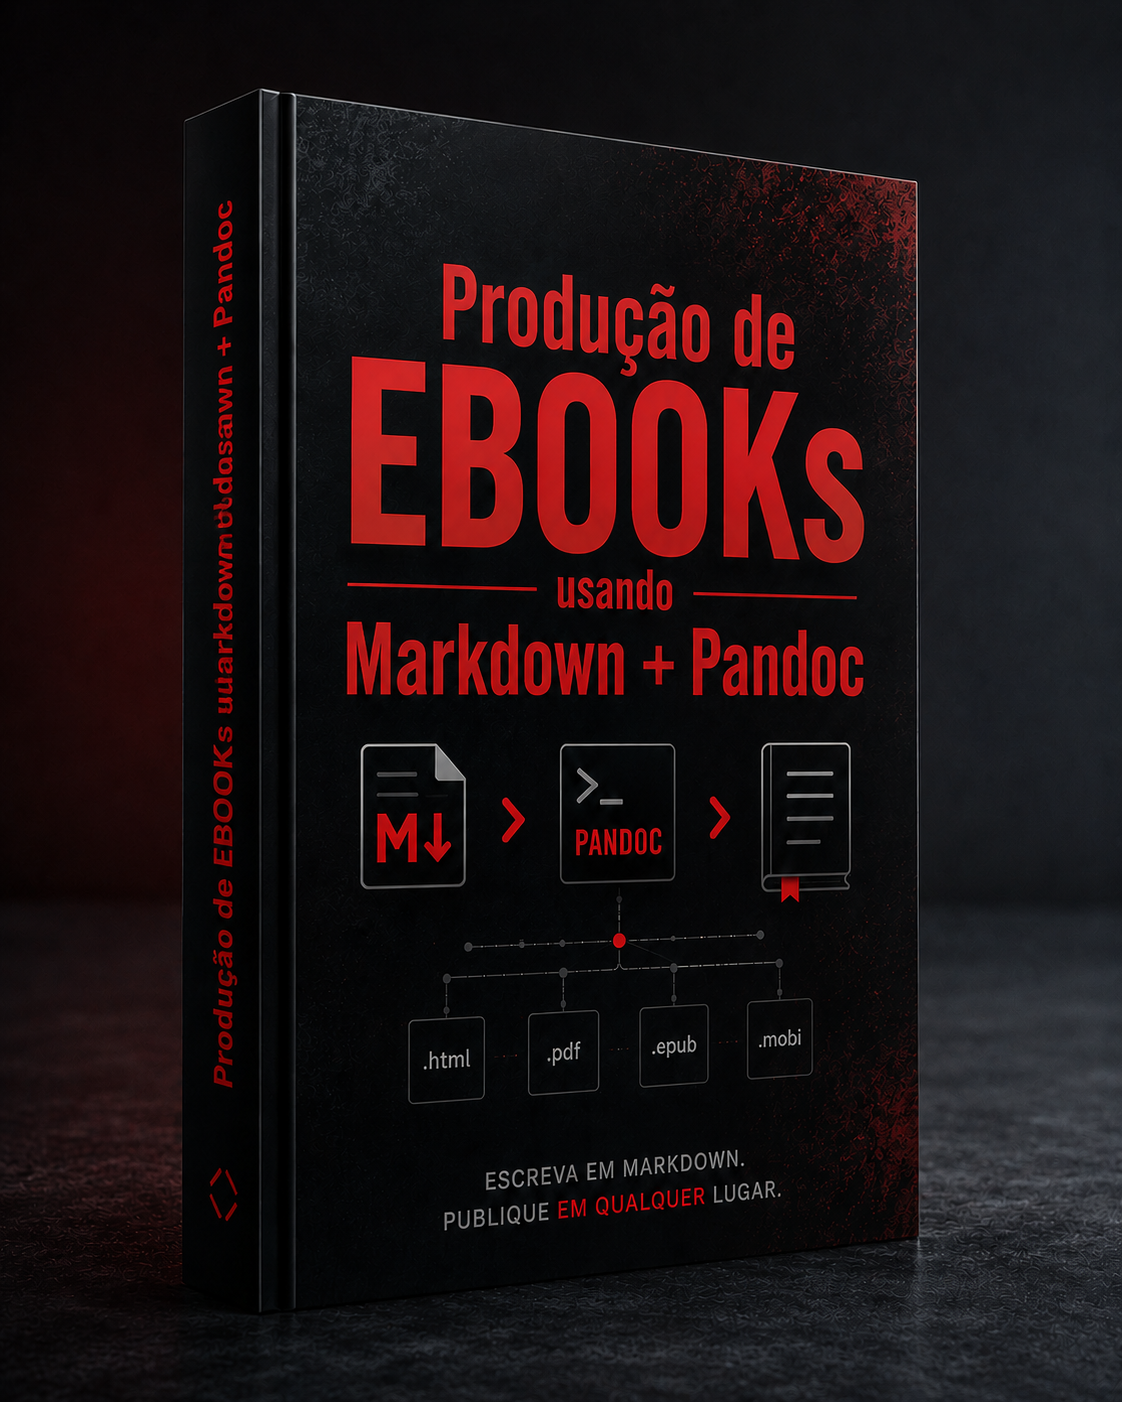
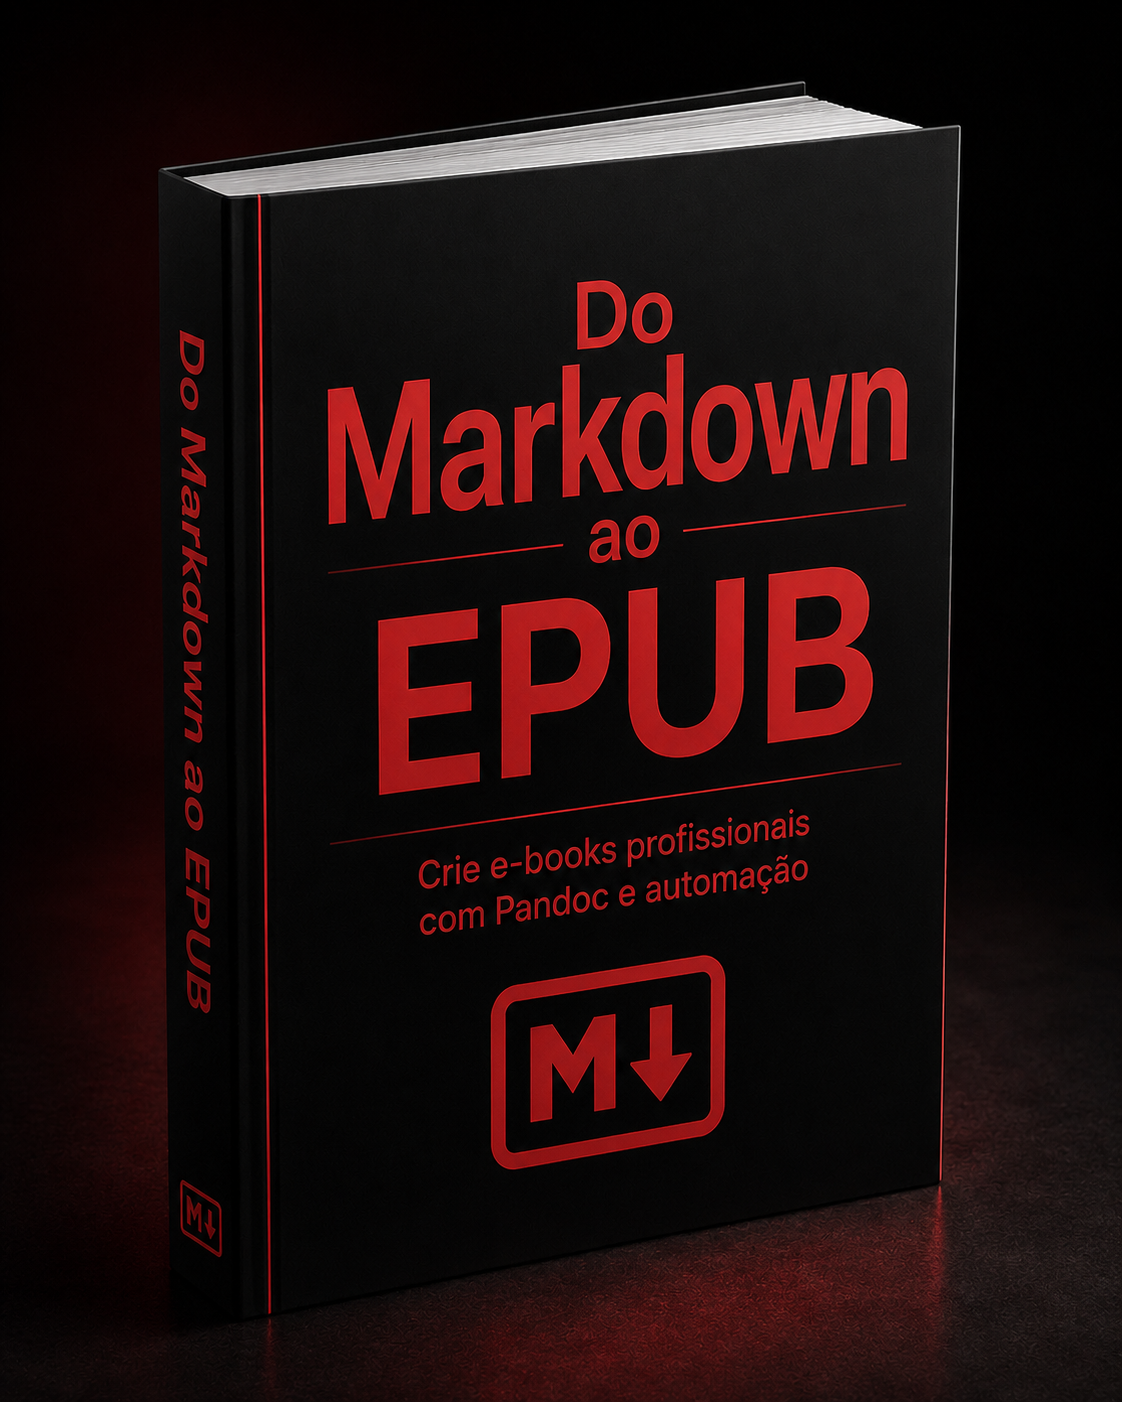
coredata

diff --git a/content/ebook-freelancer.md b/content/ebook-freelancer.md
@@ -1,0 +1,93 @@
+<img src="./assets/ebook-freelancer.png" width="45%" height="45%" style="border-radius:2%;" />
+
+     
+
+
+
+## Conteúdo do eBook 
+
+Este livro é para quem já decidiu que quer trabalhar com programação web de forma independente, mas ainda não sabe por onde começar de verdade.
+
+Não é para quem quer entrar no processo seletivo de uma grande empresa de tecnologia. Não é para quem busca se tornar especialista em arquitetura de software ou engenharia de sistemas complexos. É para quem quer criar, publicar e vender usando o que sabe sobre a web.
+
+Se você se encaixa em algum desses perfis, este livro foi escrito para você:
+
+**Você está começando agora.** Já fez alguns cursos, sabe o básico de HTML e CSS, talvez tenha mexido um pouco com JavaScript, mas ainda não sabe como transformar isso em trabalho real.
+
+**Você já programa mas não produz.** Tem conhecimento técnico, mas não tem portfólio sólido, não tem projetos publicados, não sabe como chegar nos primeiros clientes ou criar os primeiros produtos.
+
+**Você quer independência digital.** Não necessariamente montar uma empresa grande. Quer ter controle sobre o próprio tempo, trabalhar de qualquer lugar e gerar renda com o que sabe fazer.
+
+**Você não quer depender de frameworks complexos.** Quer entender a base antes de adicionar camadas. HTML, CSS e JavaScript vanilla são suficientes para construir coisas reais, e este livro prova isso.
+
+---
+
+## O que você vai encontrar aqui
+
+Este livro é um guia operacional. Cada capítulo tem uma função específica no seu desenvolvimento como desenvolvedor freelancer.
+
+**Fundamentos** cobre a base técnica sem enrolação. HTML estrutural, CSS com Flexbox e Grid, JavaScript com manipulação de DOM e eventos. Você vai ver código real, não pseudocódigo. Vai entender o que cada coisa faz e por que existe.
+
+**Ferramentas** mostra o ambiente de trabalho de um desenvolvedor moderno. VSCode configurado do jeito certo, Git e GitHub no fluxo diário, terminal sem medo, DevTools para debug, e como usar inteligência artificial como copiloto sem depender dela.
+
+**Portfólio** ensina a construir projetos que comunicam valor. Não projetos para encher linha de currículo, mas projetos que mostram que você resolve problemas. Landing page completa, site de portfólio pessoal, documentação que impressiona, posicionamento profissional.
+
+**Produtos** é onde o conhecimento técnico vira fonte de renda independente. Templates, ferramentas web, boilerplates, e-books, componentes reutilizáveis. Como criar, empacotar, precificar e distribuir produtos digitais feitos com HTML, CSS e JavaScript.
+
+**Checklist** é o resumo operacional do livro inteiro. Uma lista de verificação com tudo que você precisa ter, saber e fazer para funcionar como desenvolvedor freelancer. Referências rápidas, próximos passos, hábitos que fazem diferença.
+
+---
+
+## O que você não vai encontrar aqui
+
+Sem promessas de renda em 30 dias. Sem fórmula mágica para ficar rico programando. Sem lista de 47 ferramentas que você precisa aprender antes de começar.
+
+Este livro não ensina React, Vue, Angular ou qualquer framework. Não porque frameworks sejam ruins, mas porque a base vem primeiro. Quem entende bem HTML, CSS e JavaScript vanilla aprende qualquer framework em semanas. Quem pula a base fica perdido em qualquer ferramenta.
+
+Também não há conteúdo sobre DevOps, cloud, banco de dados ou backend. O escopo é proposital: web frontend, produtos digitais, independência. O suficiente para começar a gerar resultado.
+
+---
+
+## Como usar este livro
+
+Leia na ordem. Os capítulos foram estruturados em progressão, cada um apoia o seguinte.
+
+Mais importante do que ler é fazer. A cada capítulo existe pelo menos um projeto ou exercício prático. Não pule. Não deixe para depois. O conhecimento que fica é o conhecimento aplicado.
+
+Se você já tem experiência em alguma área, sinta-se livre para avançar mais rápido nas partes que já domina. Use o Checklist no último capítulo para identificar onde estão seus gaps reais.
+
+---
+
+## Uma observação sobre o código
+
+Todos os exemplos deste livro usam HTML, CSS e JavaScript puro, sem dependências externas, sem npm, sem processo de build. Você precisa de um editor de texto e um navegador. Só isso.
+
+Os exemplos foram escritos para serem funcionais e legíveis ao mesmo tempo. Não são o código mais otimizado possível, mas são o código mais claro possível para quem está aprendendo.
+
+Copie, modifique, quebre e conserte. Essa é a melhor forma de aprender programação.
+
+---
+
+## Comece pelo que você já tem
+
+Precisa de um editor de código, um navegador e disposição para criar coisas imperfeitas até ficarem boas. O mercado não recompensa quem mais estudou. Recompensa quem entrega, quem publica, quem resolve problemas reais para pessoas reais. Este livro é o mapa. O território é o seu.
+ 
+
+---
+
+<a style="vertical-align: middle; display: inline-flex; align-items: center; gap: 8px;" href="https://wa.me/5531996981103">
+  💰 Comprar EBOOK Programador Web Freelancer →
+  <img src="./assets/whatsapp.png" 
+    width="25" 
+    height="25"
+    alt="WhatsApp"/></a>
+
+
+
+
+> 54,00 REAIS · Arquivo EPUB · PIX / Transferência
+    
+
+---
+
+

diff --git a/content/ebook-pandoc.md b/content/ebook-pandoc.md
@@ -4,7 +4,7 @@
 
 <img src="./assets/ebook-pandoc.png" width="45%" height="45%" style="border-radius:2%;" />
 
-## eBook Markdown + Pandoc
+## Conteúdo do eBook 
 
 Um guia prático para transformar texto simples em conteúdo profissional — eBooks, PDFs, documentações e EPUBs — usando ferramentas leves, abertas e independentes de plataformas complexas. Feito para quem quer produzir mais com menos fricção.
 